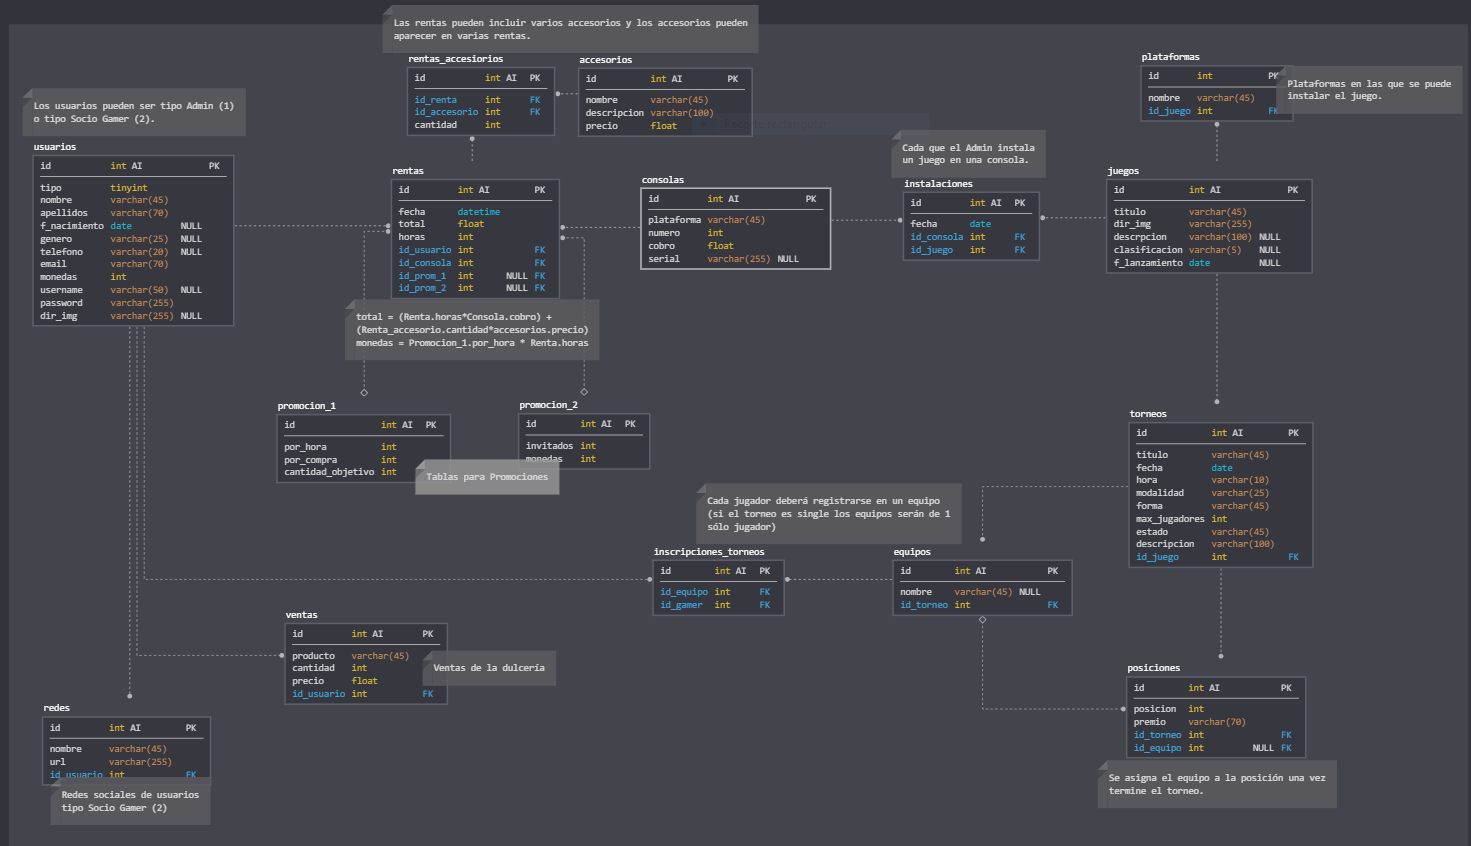
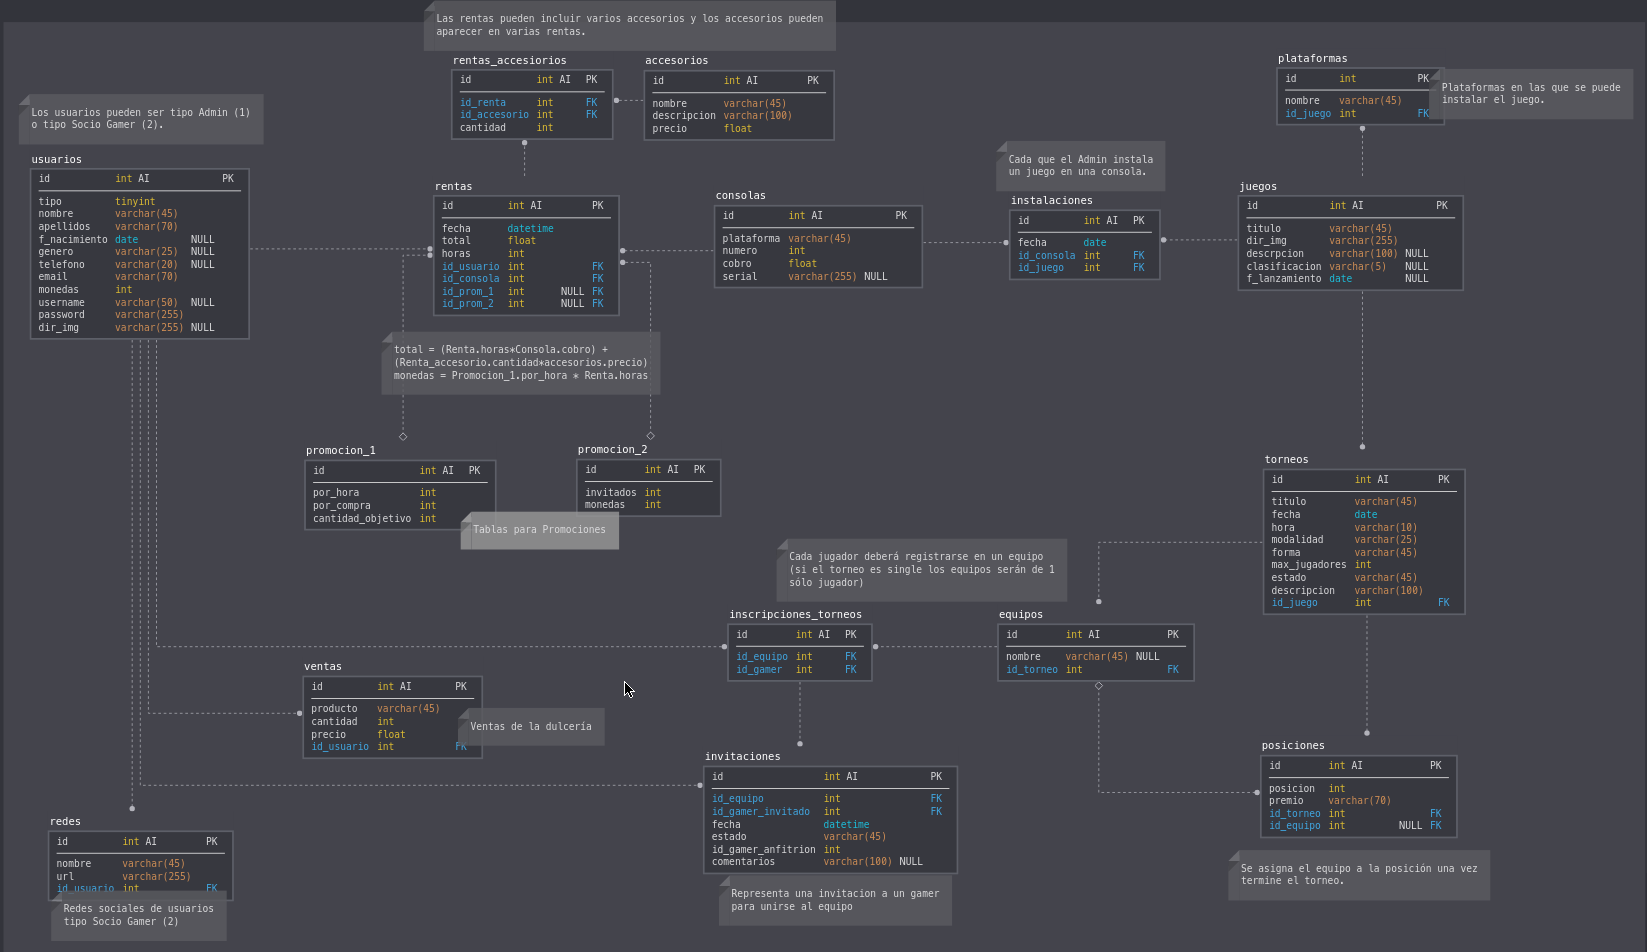
Dashboard de gamer agregado, tabla invitaciones agregada en script BD, redireccion en base al tipo de usuario.

diff --git a/include/headerGamer.php b/include/headerGamer.php
@@ -1,17 +1,18 @@
 <?php
-    session_start();
-    if(isset($_GET['logout'])){ # si se quiere cerrar sesion
-        session_unset();
-        session_destroy();
+session_start();
+if(isset($_GET['logout'])){ # si se quiere cerrar sesion
+    session_unset();
+    session_destroy();
+}
+if(!isset($_SESSION['id'])){ # si no hay una sesion
+    header('Location: login.php');
+}
+if(isset($_SESSION['id'])){
+    if($_SESSION['id'] == 1){ # si es un user gamer
+        header('Location: index.php');
     }
-    if(!isset($_SESSION['id'])){ # si no hay una sesion
-        header('Location: login.php');
-    }
-    if(isset($_SESSION['id'])){
-        if($_SESSION['id'] == 2){ # si es un user gamer
-            header('Location: indexGamer.php');
-        }
-    }
+}
+
 
 ?>
 
@@ -67,19 +68,19 @@
 
         <!-- Heading -->
         <div class="sidebar-heading">
-            Venta
+            A jugar
         </div>
         <!-- Nav Item - Pages Collapse Menu -->
         <li class="nav-item">
             <a class="nav-link collapsed" href="#" data-toggle="collapse" data-target="#submenuDulceria" aria-expanded="true" aria-controls="collapseTwo">
                 <i class="fas fa-fw fa-cog"></i>
-                <span>Dulcería</span>
+                <span>Torneos</span>
             </a>
             <div id="submenuDulceria" class="collapse" aria-labelledby="headingTwo" data-parent="#accordionSidebar">
                 <div class="bg-white py-2 collapse-inner rounded">
                     <!--<h6 class="collapse-header">Custom Components:</h6>-->
-                    <a class="collapse-item" href="#">Registrar venta</a>
-                    <a class="collapse-item" href="#">Ver ventas</a>
+                    <a class="collapse-item" href="#">Registrarse</a>
+                    <a class="collapse-item" href="#">Mis torneos</a>
                 </div>
             </div>
         </li>
@@ -88,60 +89,27 @@
         <hr class="sidebar-divider">
         <!-- Heading -->
         <div class="sidebar-heading">
-            Jugar
+            Amigos
         </div>
-        <!-- Nav Item - Consolas -->
-        <li class="nav-item">
-            <a class="nav-link collapsed" href="#" data-toggle="collapse" data-target="#submenuConsolas" aria-expanded="true" aria-controls="collapseTwo">
-                <i class="fas fa-fw fa-cog"></i>
-                <span>Consolas</span>
-            </a>
-            <div id="submenuConsolas" class="collapse" aria-labelledby="headingTwo" data-parent="#accordionSidebar">
-                <div class="bg-white py-2 collapse-inner rounded">
-                    <!--<h6 class="collapse-header">Custom Components:</h6>-->
-                    <a class="collapse-item" href="#">Listar</a>
-                    <a class="collapse-item" href="#">Instalar juego</a>
-                </div>
-            </div>
-        </li>
         <!-- Nav Item - Juegos -->
         <li class="nav-item">
             <a class="nav-link" href="#">
                 <i class="fas fa-fw fa-gamepad"></i>
-                <span>Juegos</span></a>
+                <span>Invitaciones</span></a>
         </li>
-
         <!-- Divider -->
         <hr class="sidebar-divider">
         <!-- Heading -->
         <div class="sidebar-heading">
-            Atracción
+            Recolectar
         </div>
-        <!-- Nav Item - Torneos -->
+        <!-- Nav Item - Juegos -->
         <li class="nav-item">
             <a class="nav-link" href="#">
-                <i class="fas fa-fw fa-trophy"></i>
-                <span>Torneos</span></a>
-        </li>
-        <!-- Nav Item - Promociones -->
-        <li class="nav-item">
-            <a class="nav-link" href="#">
-                <i class="fas fa-fw fa-money-check"></i>
-                <span>Promociones</span></a>
+                <i class="fas fa-fw fa-gamepad"></i>
+                <span>Mis monedas</span></a>
         </li>
 
-        <!-- Divider -->
-        <hr class="sidebar-divider">
-        <!-- Heading -->
-        <div class="sidebar-heading">
-            Sistema
-        </div>
-        <!-- Nav Item - Usuarios -->
-        <li class="nav-item">
-            <a class="nav-link" href="users.php">
-                <i class="fas fa-fw fa-users"></i>
-                <span>Usuarios</span></a>
-        </li>
         <!-- Divider -->
         <hr class="sidebar-divider d-none d-md-block">
 

diff --git a/include/footerGamer.php b/include/footerGamer.php
@@ -1,0 +1,65 @@
+
+</div>
+<!-- End of Main Content -->
+
+<!-- Footer -->
+<footer class="sticky-footer bg-white">
+    <div class="container my-auto">
+        <div class="copyright text-center my-auto">
+            <span>Copyright &copy; VideoGames Site</span>
+        </div>
+    </div>
+</footer>
+<!-- End of Footer -->
+
+</div>
+<!-- End of Content Wrapper -->
+
+</div>
+<!-- End of Page Wrapper -->
+
+<!-- Scroll to Top Button-->
+<a class="scroll-to-top rounded" href="#page-top">
+    <i class="fas fa-angle-up"></i>
+</a>
+
+<!-- Logout Modal-->
+<div class="modal fade" id="logoutModal" tabindex="-1" role="dialog" aria-labelledby="exampleModalLabel" aria-hidden="true">
+    <div class="modal-dialog" role="document">
+        <div class="modal-content">
+            <div class="modal-header">
+                <h5 class="modal-title" id="exampleModalLabel">Ready to Leave?</h5>
+                <button class="close" type="button" data-dismiss="modal" aria-label="Close">
+                    <span aria-hidden="true">×</span>
+                </button>
+            </div>
+            <div class="modal-body">Select "Logout" below if you are ready to end your current session.</div>
+            <div class="modal-footer">
+                <button class="btn btn-secondary" type="button" data-dismiss="modal">Cancel</button>
+                <a class="btn btn-primary" href="logout.php">Logout</a>
+            </div>
+        </div>
+    </div>
+</div>
+
+
+<!-- Bootstrap core JavaScript-->
+<script src="vendor/jquery/jquery.min.js"></script>
+<script src="vendor/bootstrap/js/bootstrap.bundle.min.js"></script>
+
+<!-- Core plugin JavaScript-->
+<script src="vendor/jquery-easing/jquery.easing.min.js"></script>
+
+<!-- Custom scripts for all pages-->
+<script src="js/sb-admin-2.min.js"></script>
+
+<!-- Page level plugins -->
+<script src="vendor/chart.js/Chart.min.js"></script>
+
+<!-- Page level custom scripts -->
+<script src="js/demo/chart-area-demo.js"></script>
+<script src="js/demo/chart-pie-demo.js"></script>
+
+</body>
+
+</html>

diff --git a/controllers/authentication.php b/controllers/authentication.php
@@ -31,10 +31,12 @@ if ($stmt = $connection->prepare('SELECT id, password FROM usuarios WHERE email 
             session_regenerate_id();
             $_SESSION['email'] = $_POST['email'];
             $_SESSION['id'] = $id;
-
-            header('Location: ../index.php');
-            exit;
-
+            if($id == 1) {
+                header('Location: ../index.php');
+                exit;
+            }if($id == 2) {
+                header('Location: ../indexGamer.php');
+            }
         } else {
             header('Location: ../login.php');
             exit;

diff --git a/indexGamer.php b/indexGamer.php
@@ -1,0 +1,15 @@
+<?php
+require 'include/headerGamer.php'; # contiene la navegacion
+?>
+
+    <!-- Page Heading -->
+    <div class="d-sm-flex align-items-center justify-content-between mb-4">
+        <h1 class="h3 mb-0 text-gray-800">Dashboard Gamer</h1>
+        <!--<a href="#" class="d-none d-sm-inline-block btn btn-sm btn-primary shadow-sm"><i class="fas fa-download fa-sm text-white-50"></i> Generate Report</a>-->
+    </div>
+
+
+
+<?php
+require 'include/footerGamer.php'; # contiene los scripts js y logout modal.
+?>

diff --git a/login.php b/login.php
@@ -1,7 +1,10 @@
 <?php
     session_start();
     if(isset($_SESSION['email']) && isset($_SESSION['id'])){
-        header('Location: index.php');
+        if($_SESSION['id'] == 1)
+            header('Location: index.php');
+        if($_SESSION['id'] == 2)
+            header('Location: indexGamer.php');
     }
 
 ?>

diff --git a/consolas.php b/consolas.php
@@ -1,0 +1,10 @@
+<?php
+require 'include/header.php'; # contiene la navegacion
+?>
+
+
+
+
+<?php
+require 'include/footer.php'; # contiene los scripts js y logout modal.
+?>

diff --git a/README.md b/README.md
@@ -5,8 +5,9 @@
 
 [![Database diagram](db/db_diagram.PNG)]()
 
-**[Diagrama de Base de Datos](https://app.sqldbm.com/MySQL/Edit/p103584/)**
-Script de la base de datos en `db/` (MySQL).
+## Cambios en la BD
+__Script de la base de datos en `db/` (MySQL).__
+- Se agreó la tabla `invitaciones`. 
 
 Login:
 - user: admin
